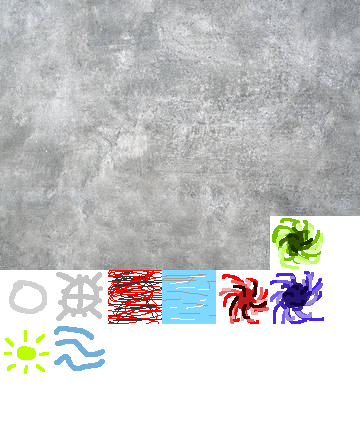
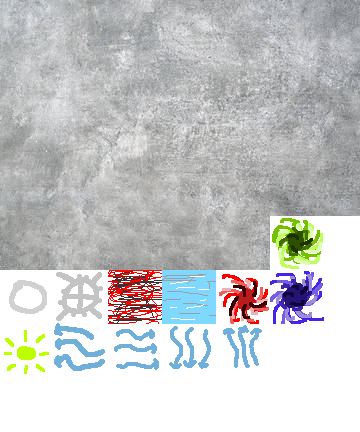
wind tiles

Changed region(s): [[0.3056, 0.7523, 0.6111, 0.8727], [0.6111, 0.7523, 0.7333, 0.8727], [0.1528, 0.7523, 0.1833, 0.8727]]

diff --git a/res/maps/temp2.tsx b/res/maps/temp2.tsx
@@ -193,6 +193,25 @@
  </tile>
  <tile id="37">
   <properties>
+   <property name="direction" value="left"/>
+   <property name="type" value="wind"/>
+  </properties>
+ </tile>
+ <tile id="38">
+  <properties>
+   <property name="direction" value="right"/>
+   <property name="type" value="wind"/>
+  </properties>
+ </tile>
+ <tile id="39">
+  <properties>
+   <property name="direction" value="down"/>
+   <property name="type" value="wind"/>
+  </properties>
+ </tile>
+ <tile id="40">
+  <properties>
+   <property name="direction" value="up"/>
    <property name="type" value="wind"/>
   </properties>
  </tile>
